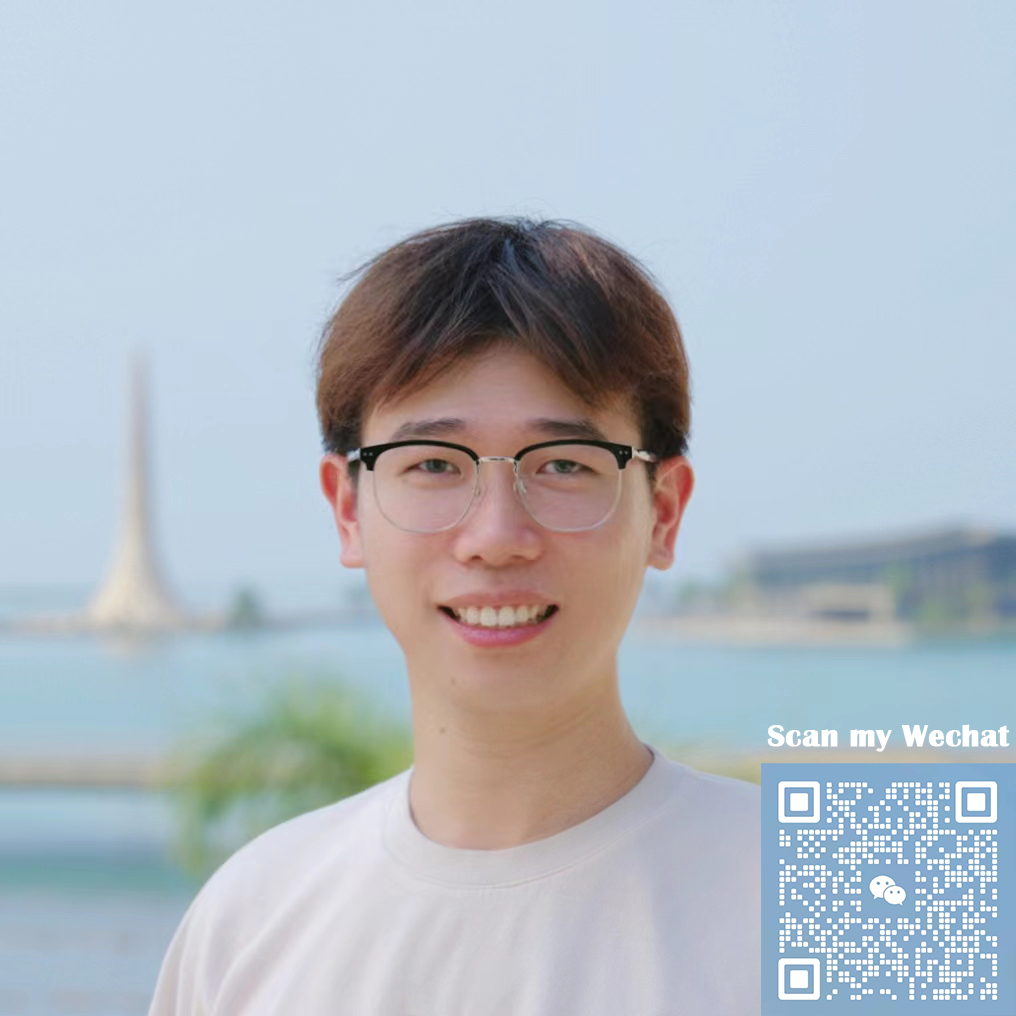
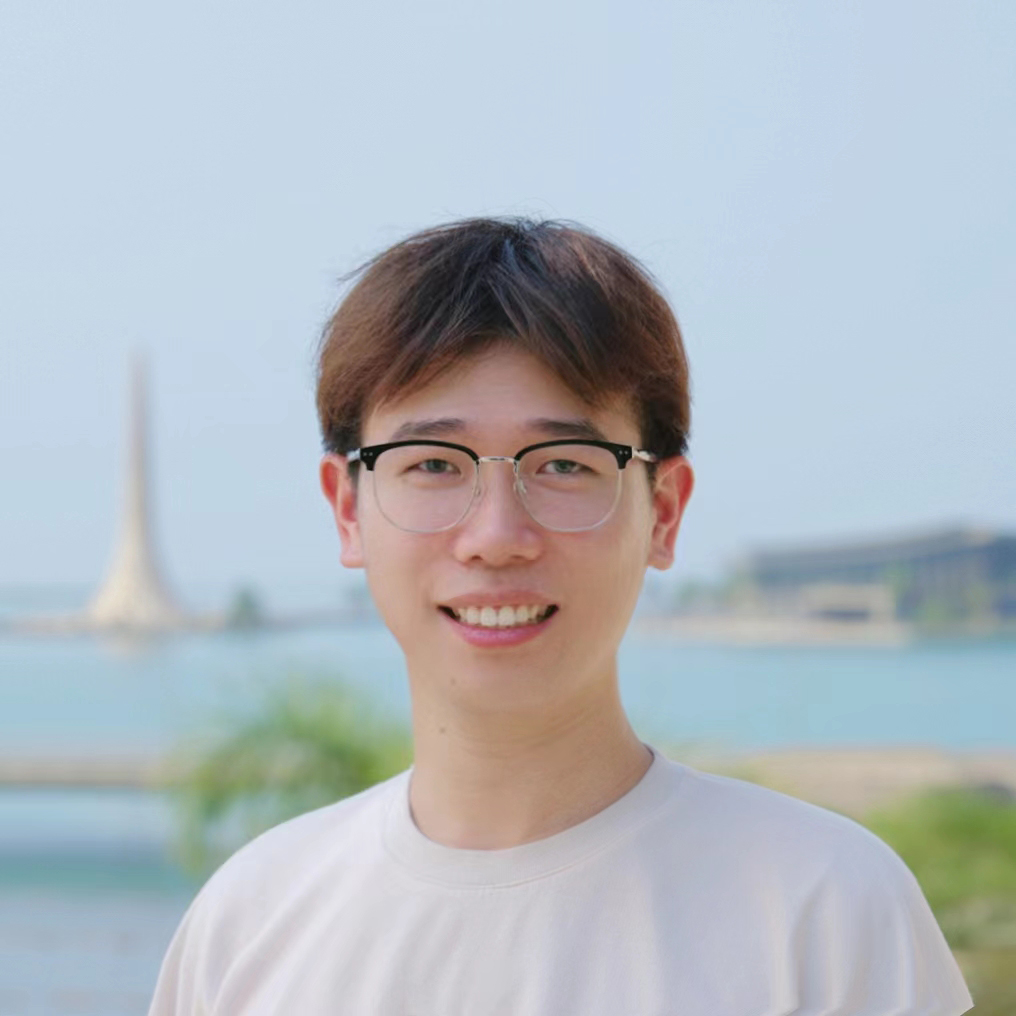
upload 3rd

Changed region(s): [[0.7323, 0.7018, 1.0, 1.0]]

diff --git a/index.md b/index.md
@@ -24,7 +24,7 @@ system (e.g., optical/memristor A.I. accelerator hardware).
 
 <br>
 
-If you are interested in my current projects, please feel free to book an [**| online talk with me |**](https://calendly.com/zhican_zhou/30min).
+If you are interested in the ongoing projects, please feel free to add personal wechat (ID: Zhican_KAUST2022) or book an [**| online talk |**](https://calendly.com/zhican_zhou/30min).
 <br>
 
 ---
